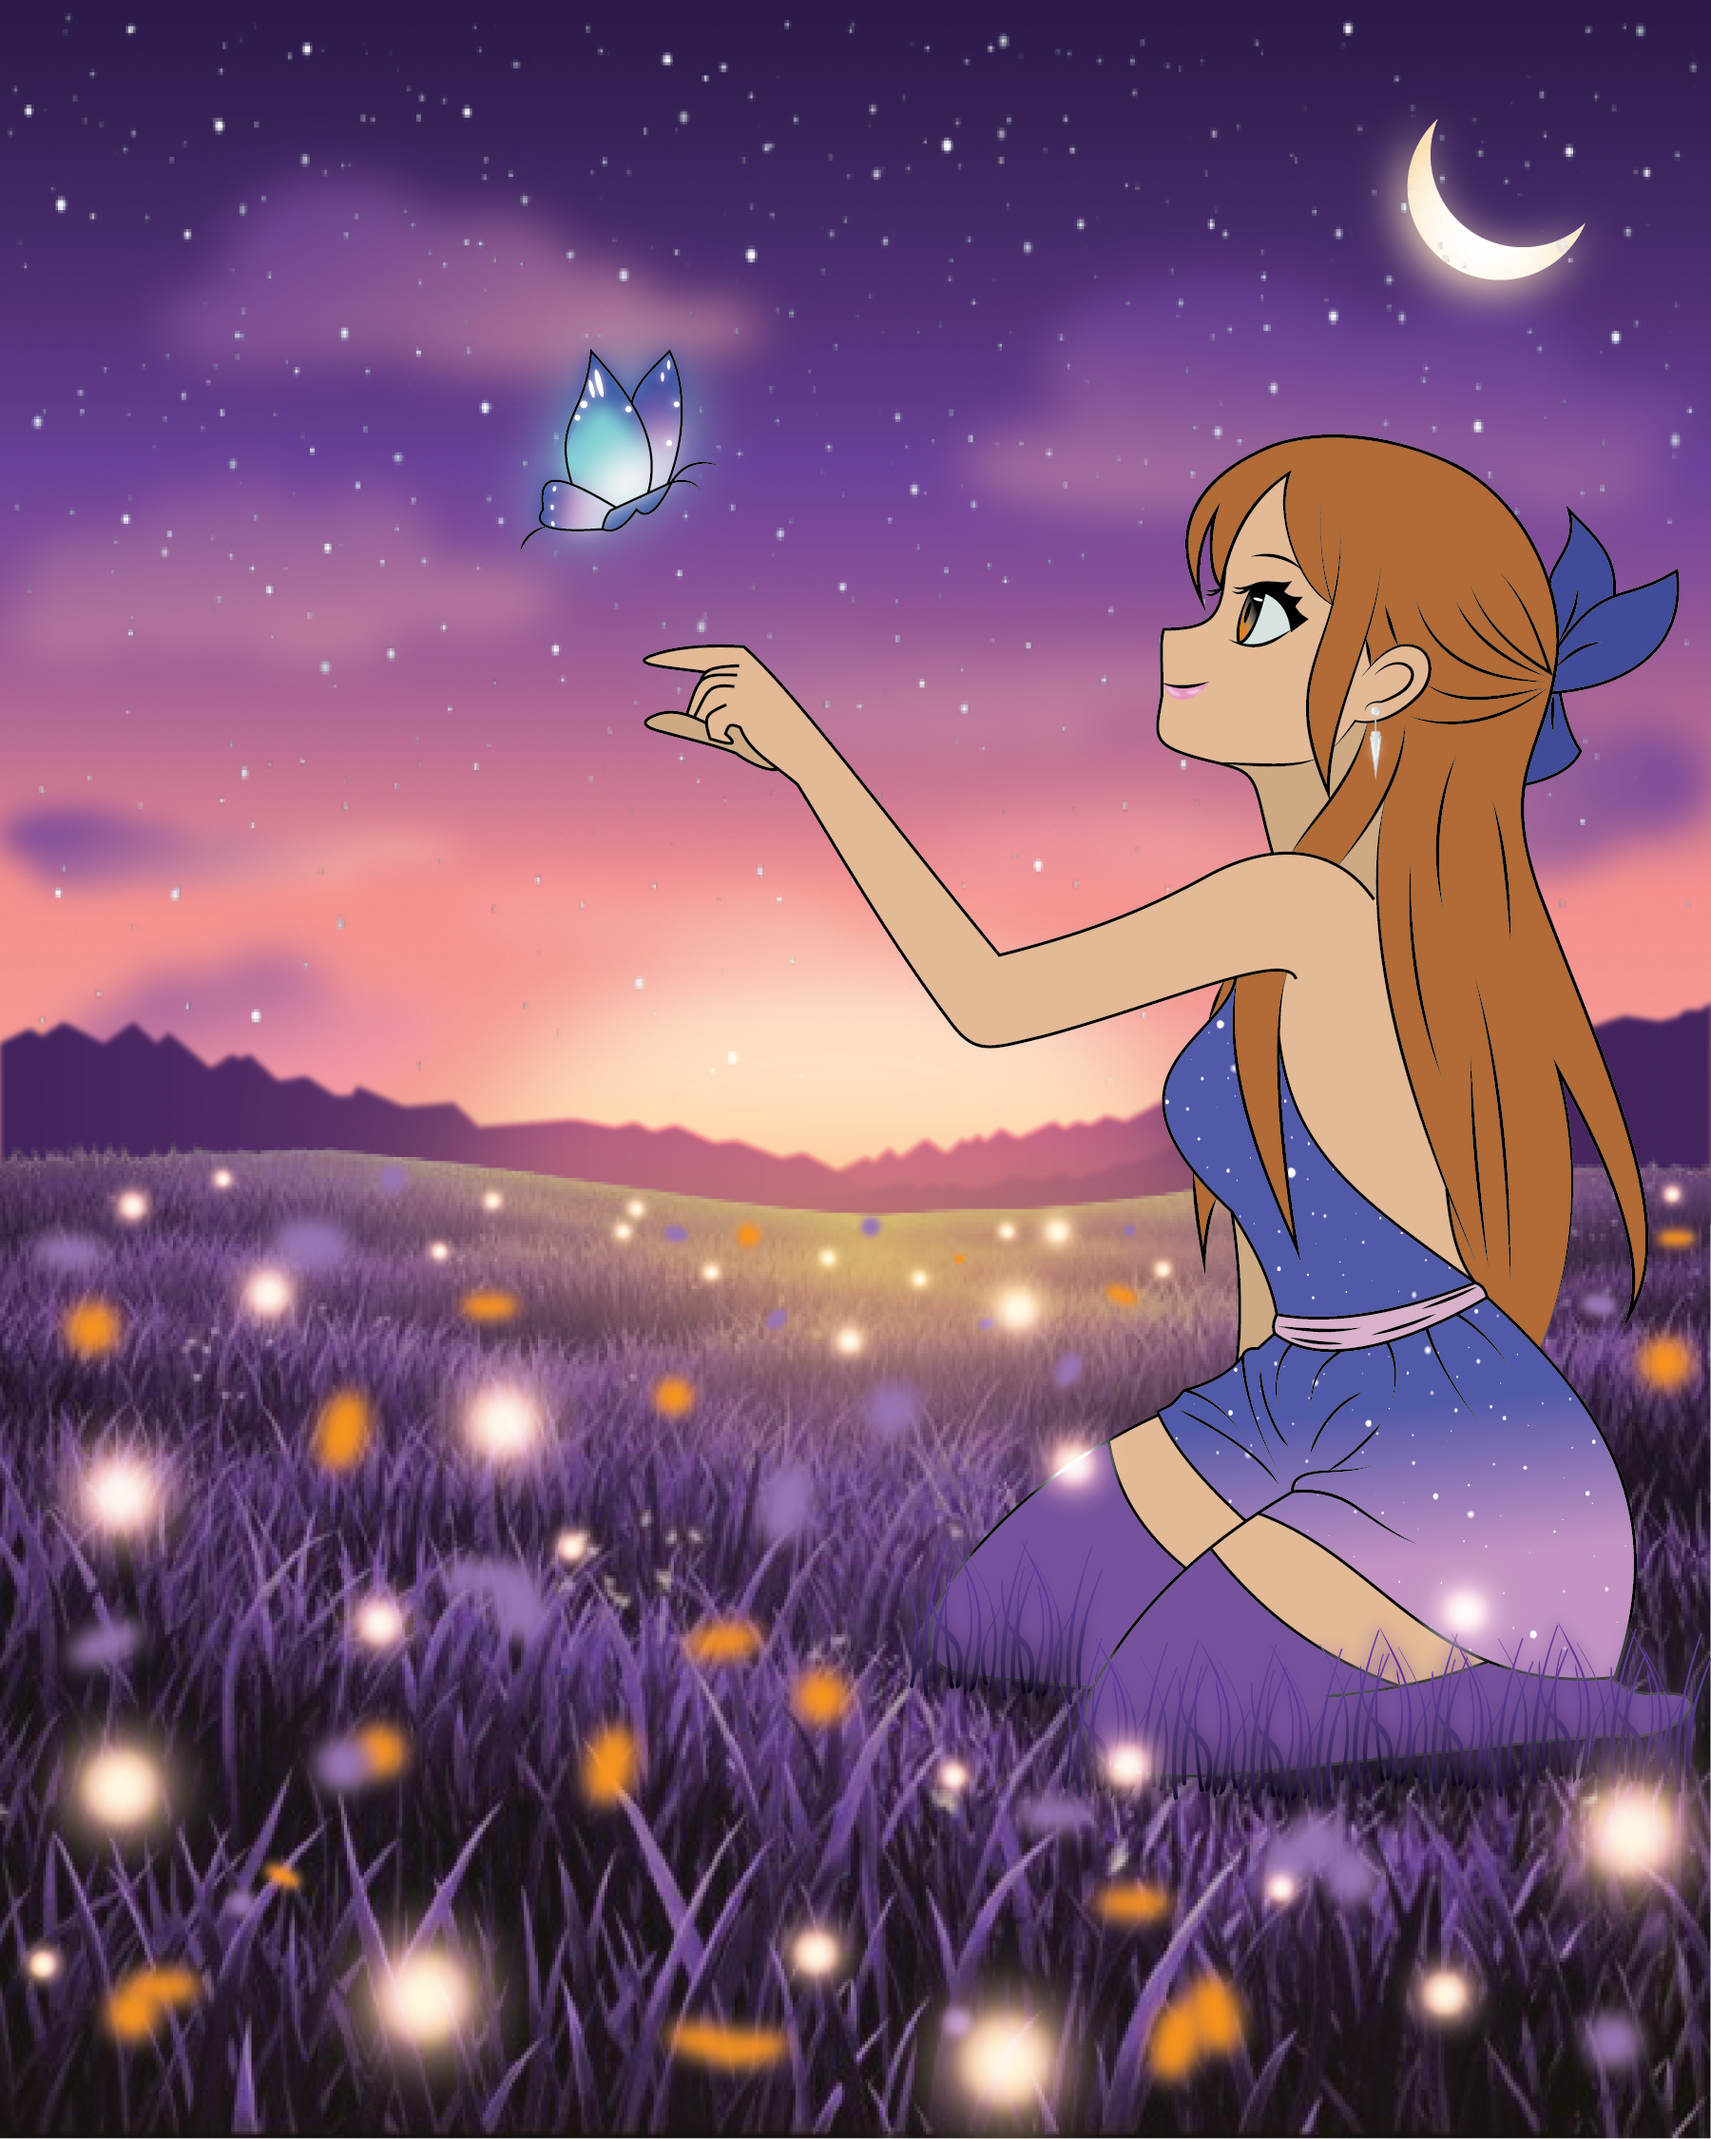
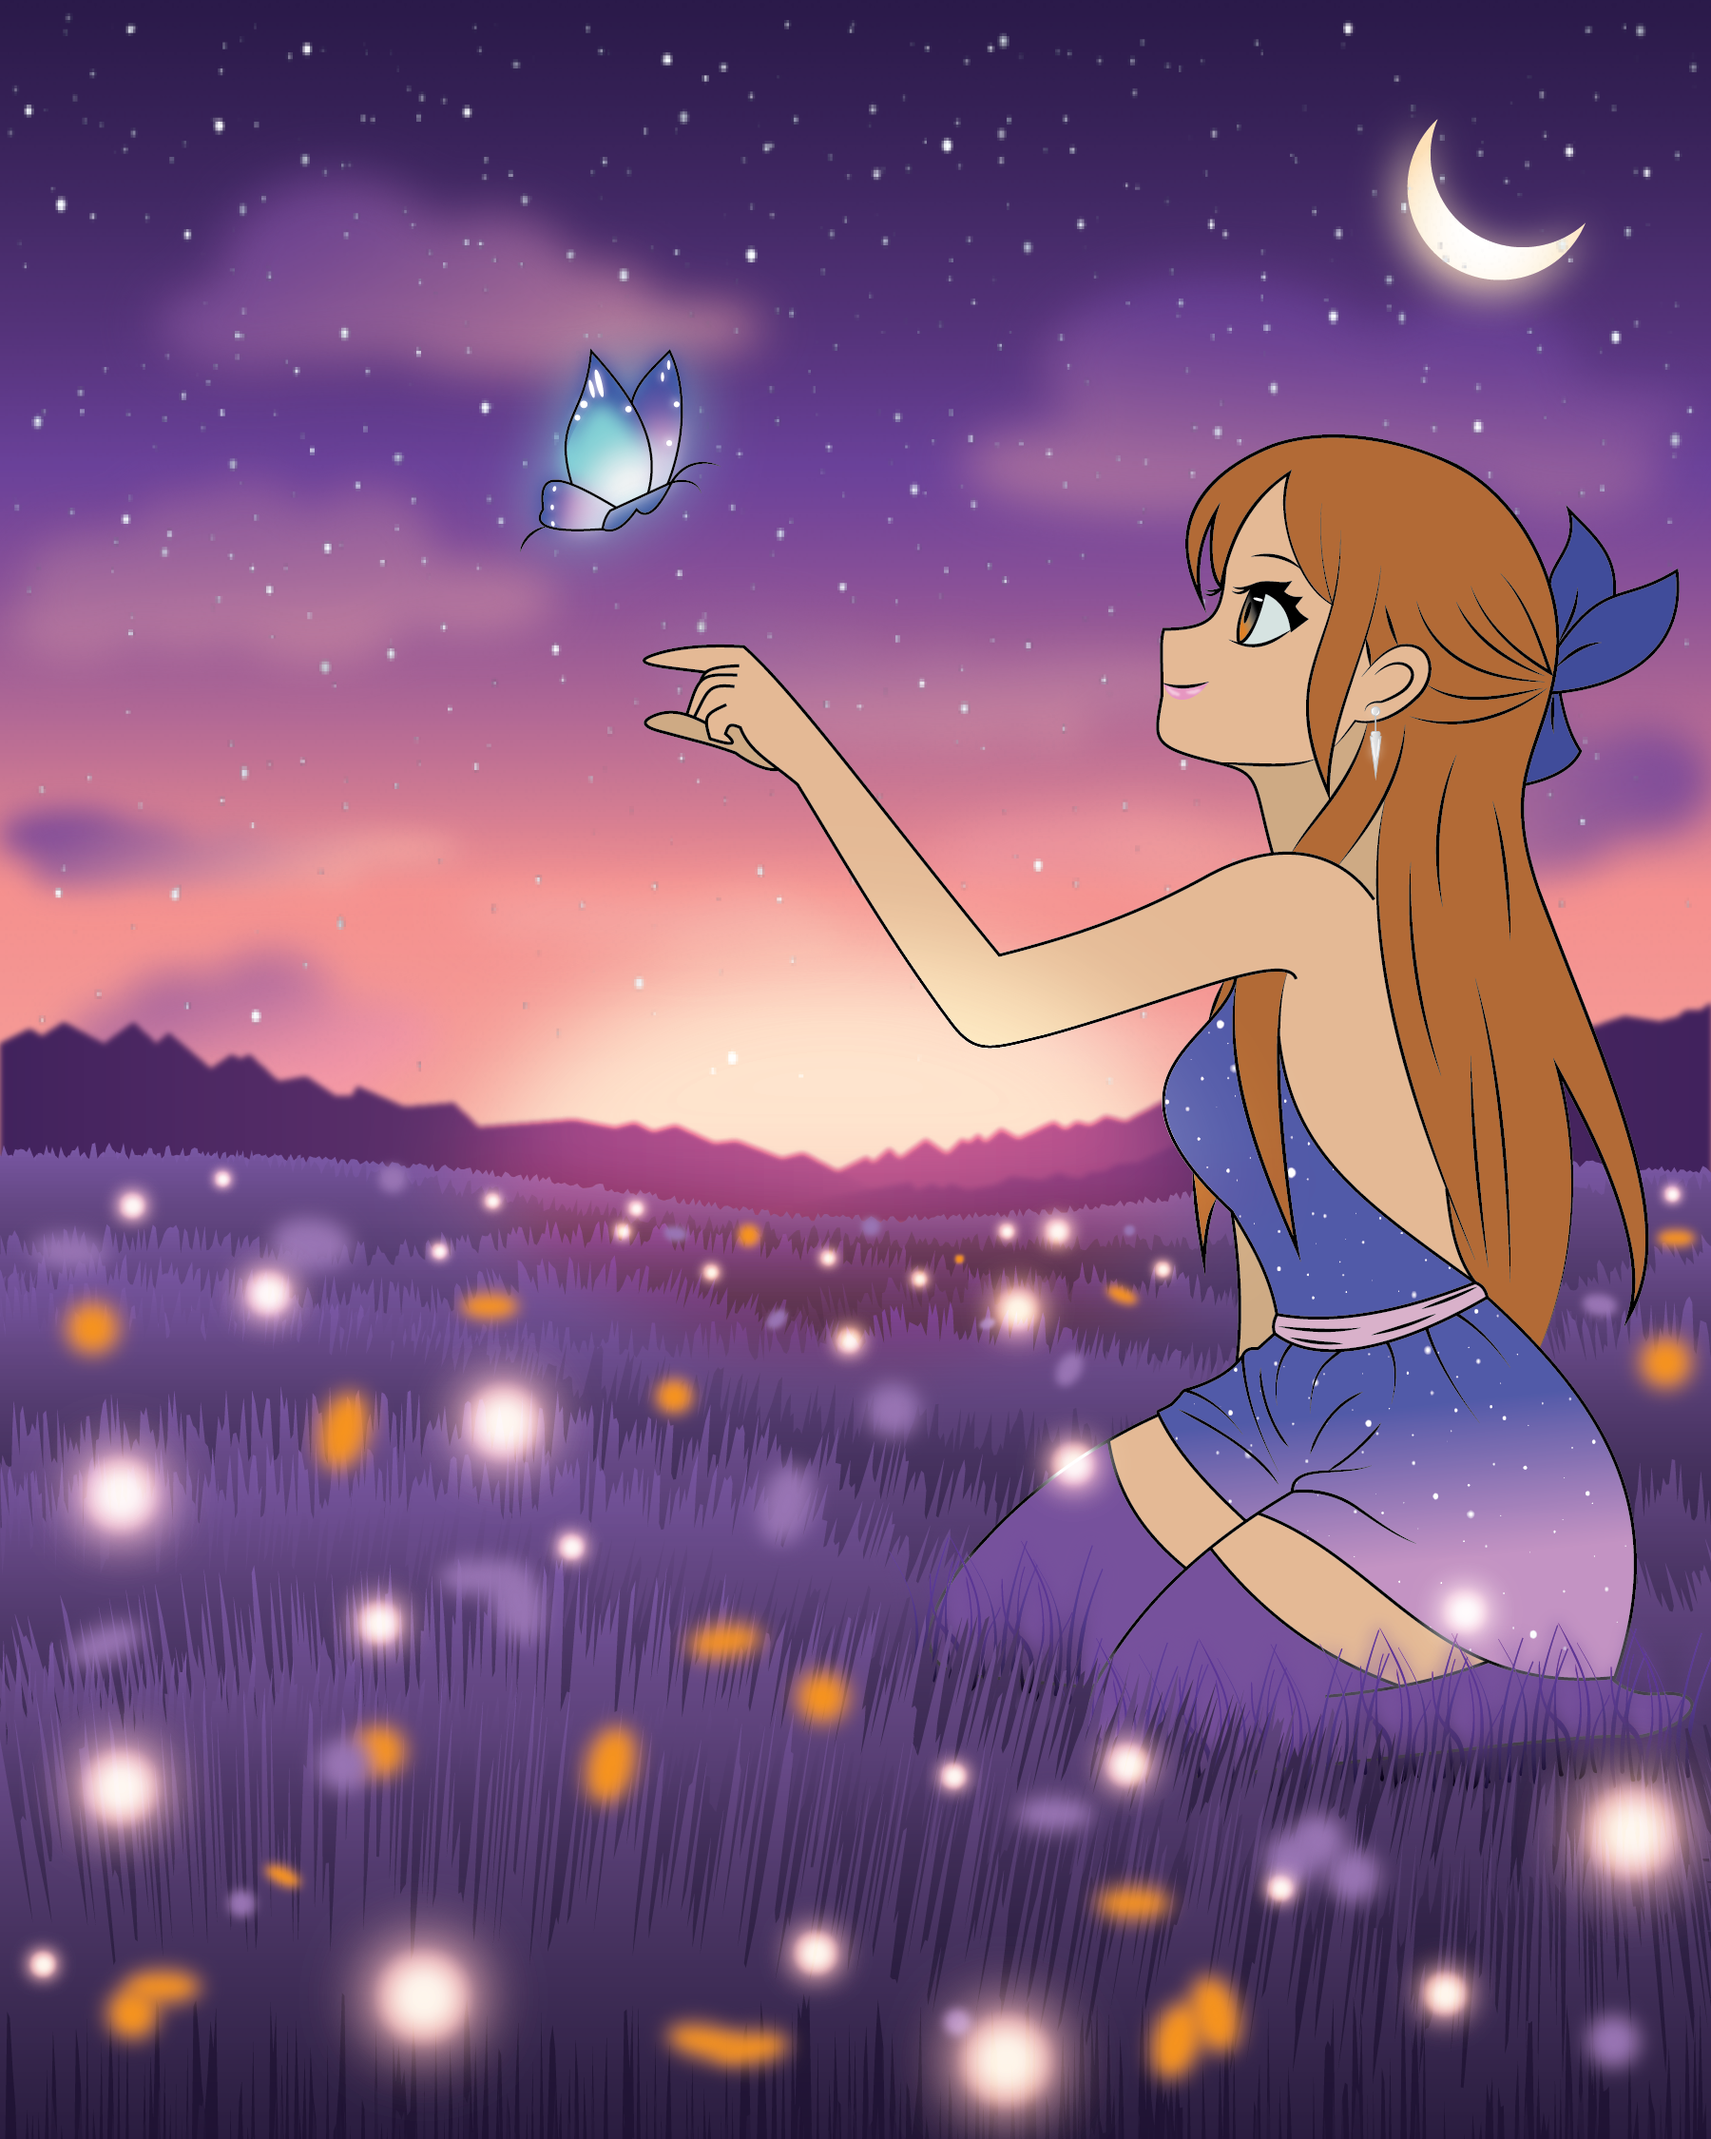
portfolio

Changed region(s): [[0.0, 0.4978, 1.0, 1.0], [0.5289, 0.4356, 0.6222, 0.4978]]

diff --git a/resume/showcase.html b/resume/showcase.html
@@ -200,7 +200,7 @@ h2 {
         <a href="summer poster.html"><img src="../resume/images/photo/summerposter thumbnail.png" alt="Illustrator Artwork" class="showcase-img"></a>
         <a href="tribal art.html"><img src="../resume/images/photo/tribal thumbnail.png" alt="Illustrator Artwork" class="showcase-img"></a>
         <a href="christmas icons.html"><img src="../resume/images/photo/Christmasicons thumbnail.png" alt="Illustrator Artwork" class="showcase-img"></a>
-        <a href="christmas icons.html"><img src="../resume/images/photo/starlitmeadow thumbnail.png" alt="Illustrator Artwork" class="showcase-img"></a>
+        <a href="starlit meadow.html"><img src="../resume/images/photo/starlitmeadow thumbnail.png" alt="Illustrator Artwork" class="showcase-img"></a>
     </div>
 
     <h2>Photo manipulation</h2>
